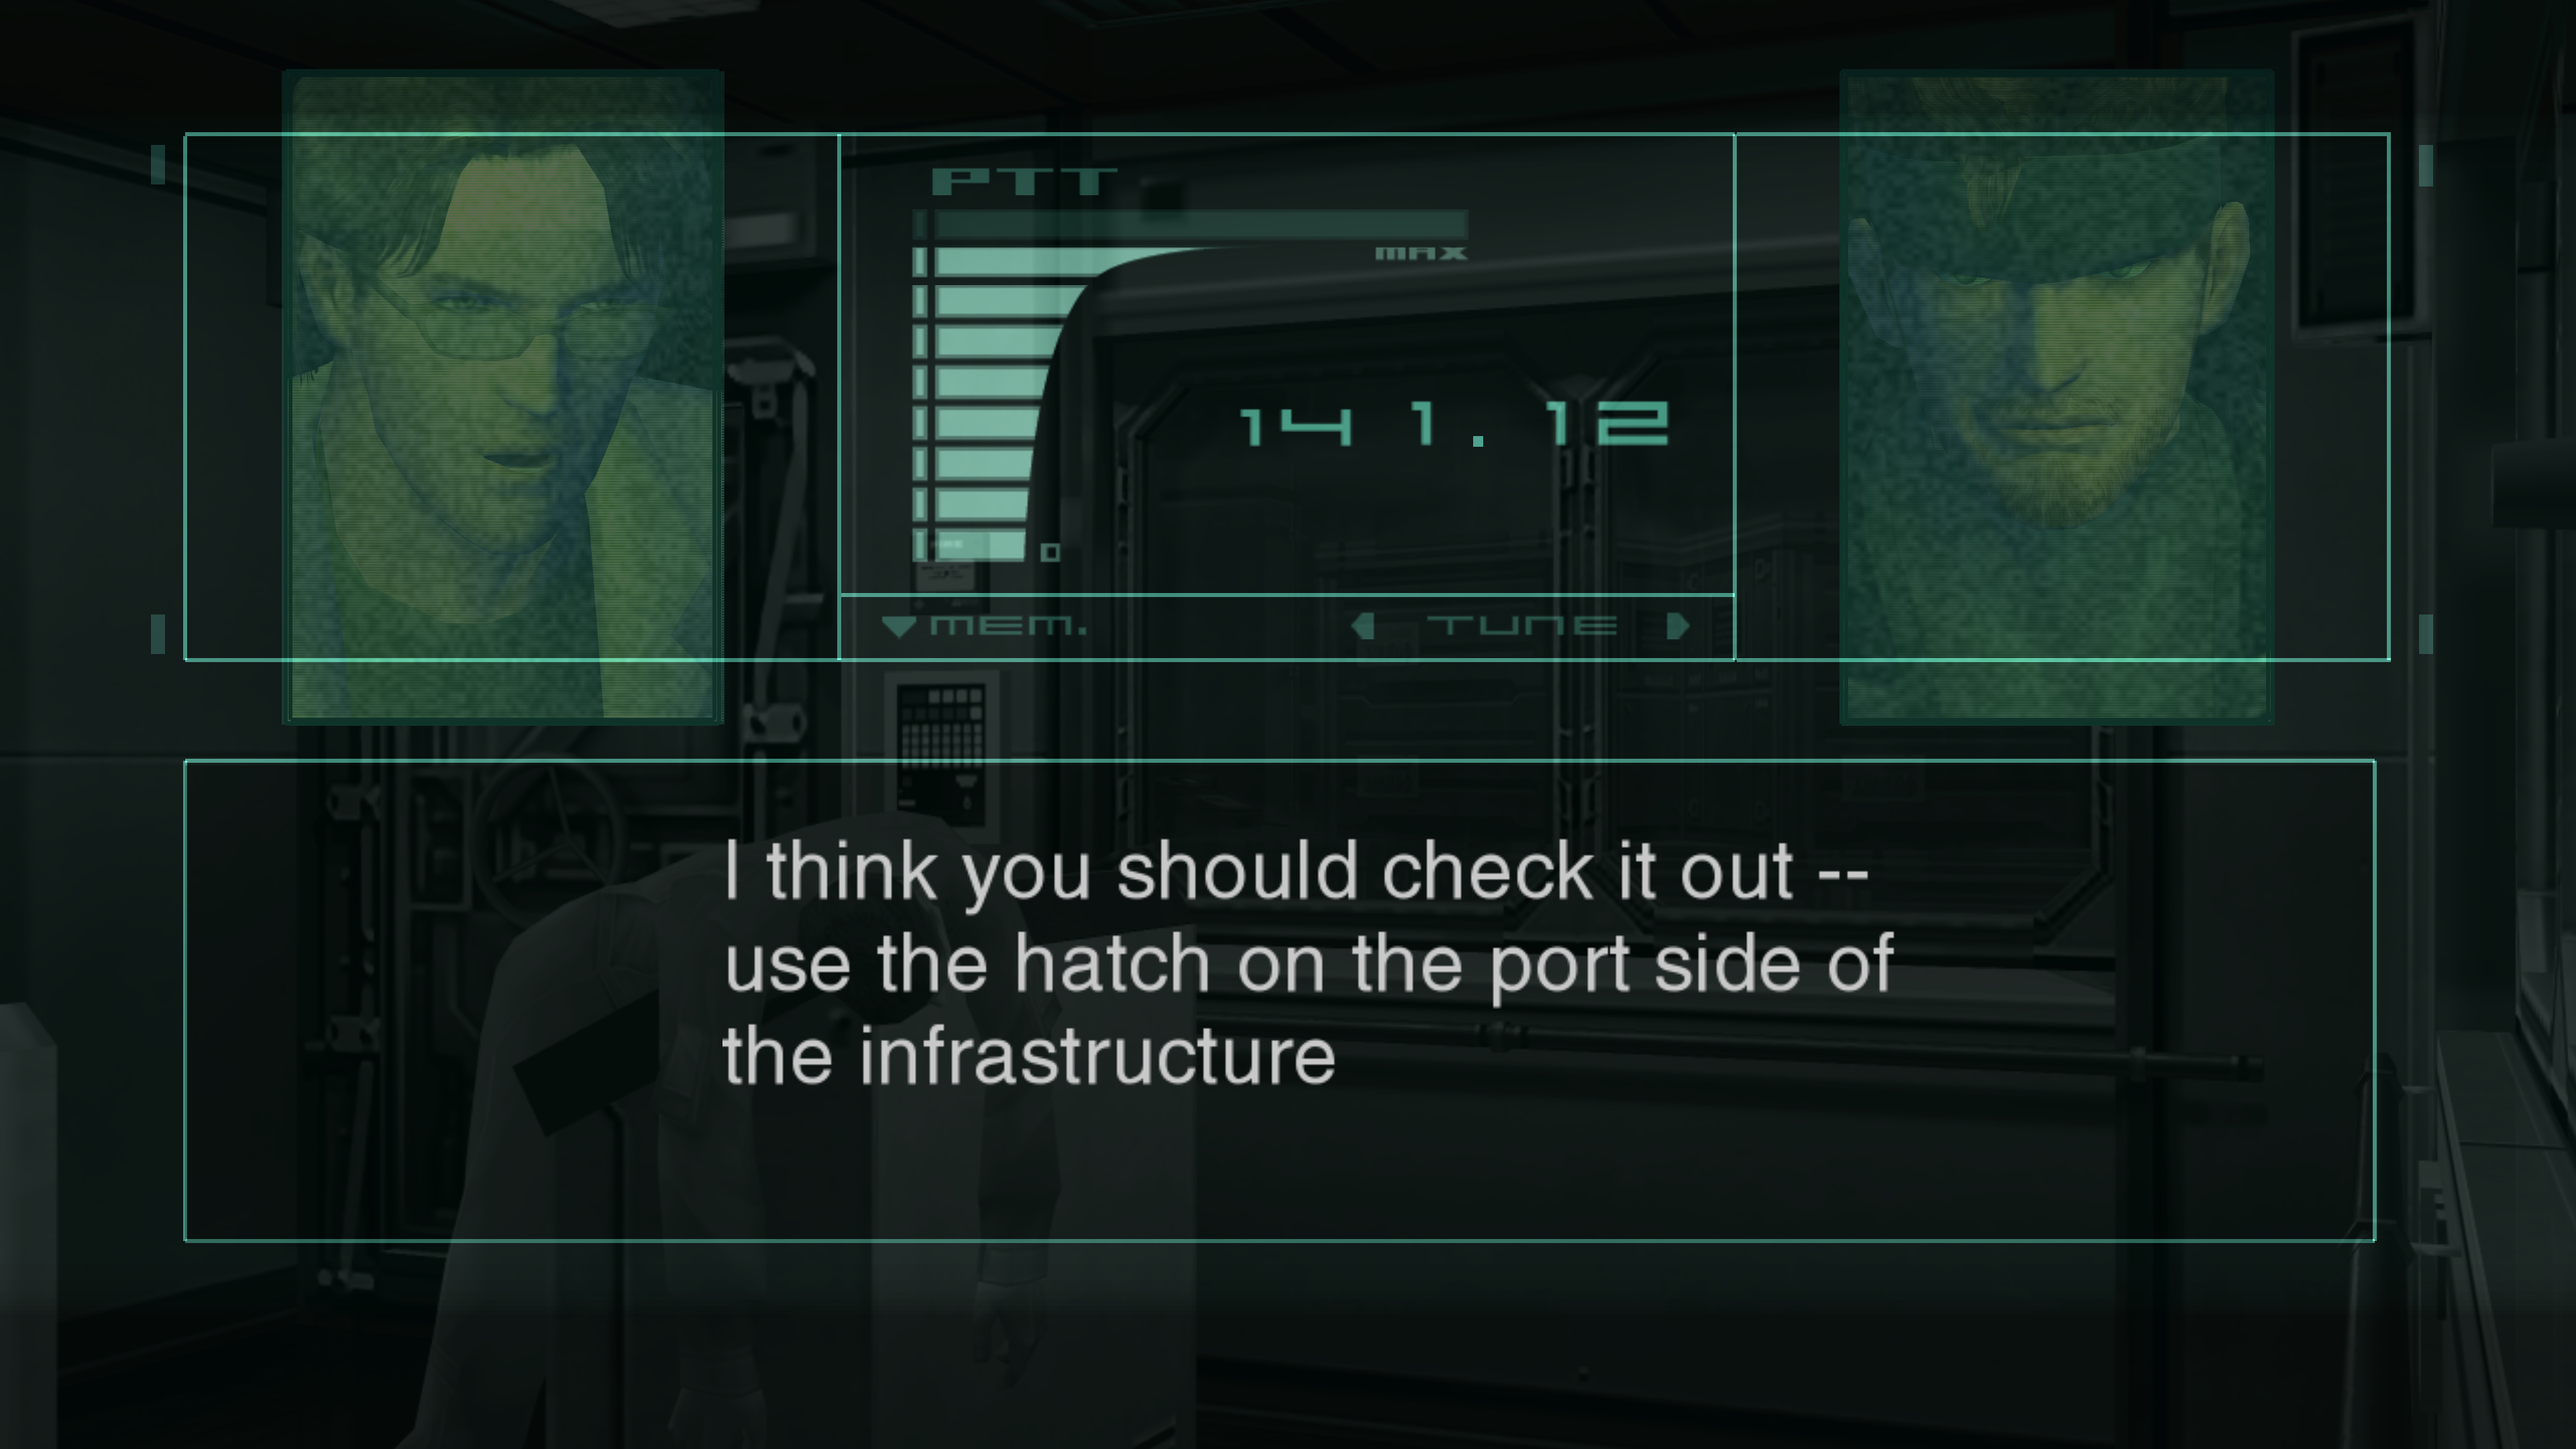
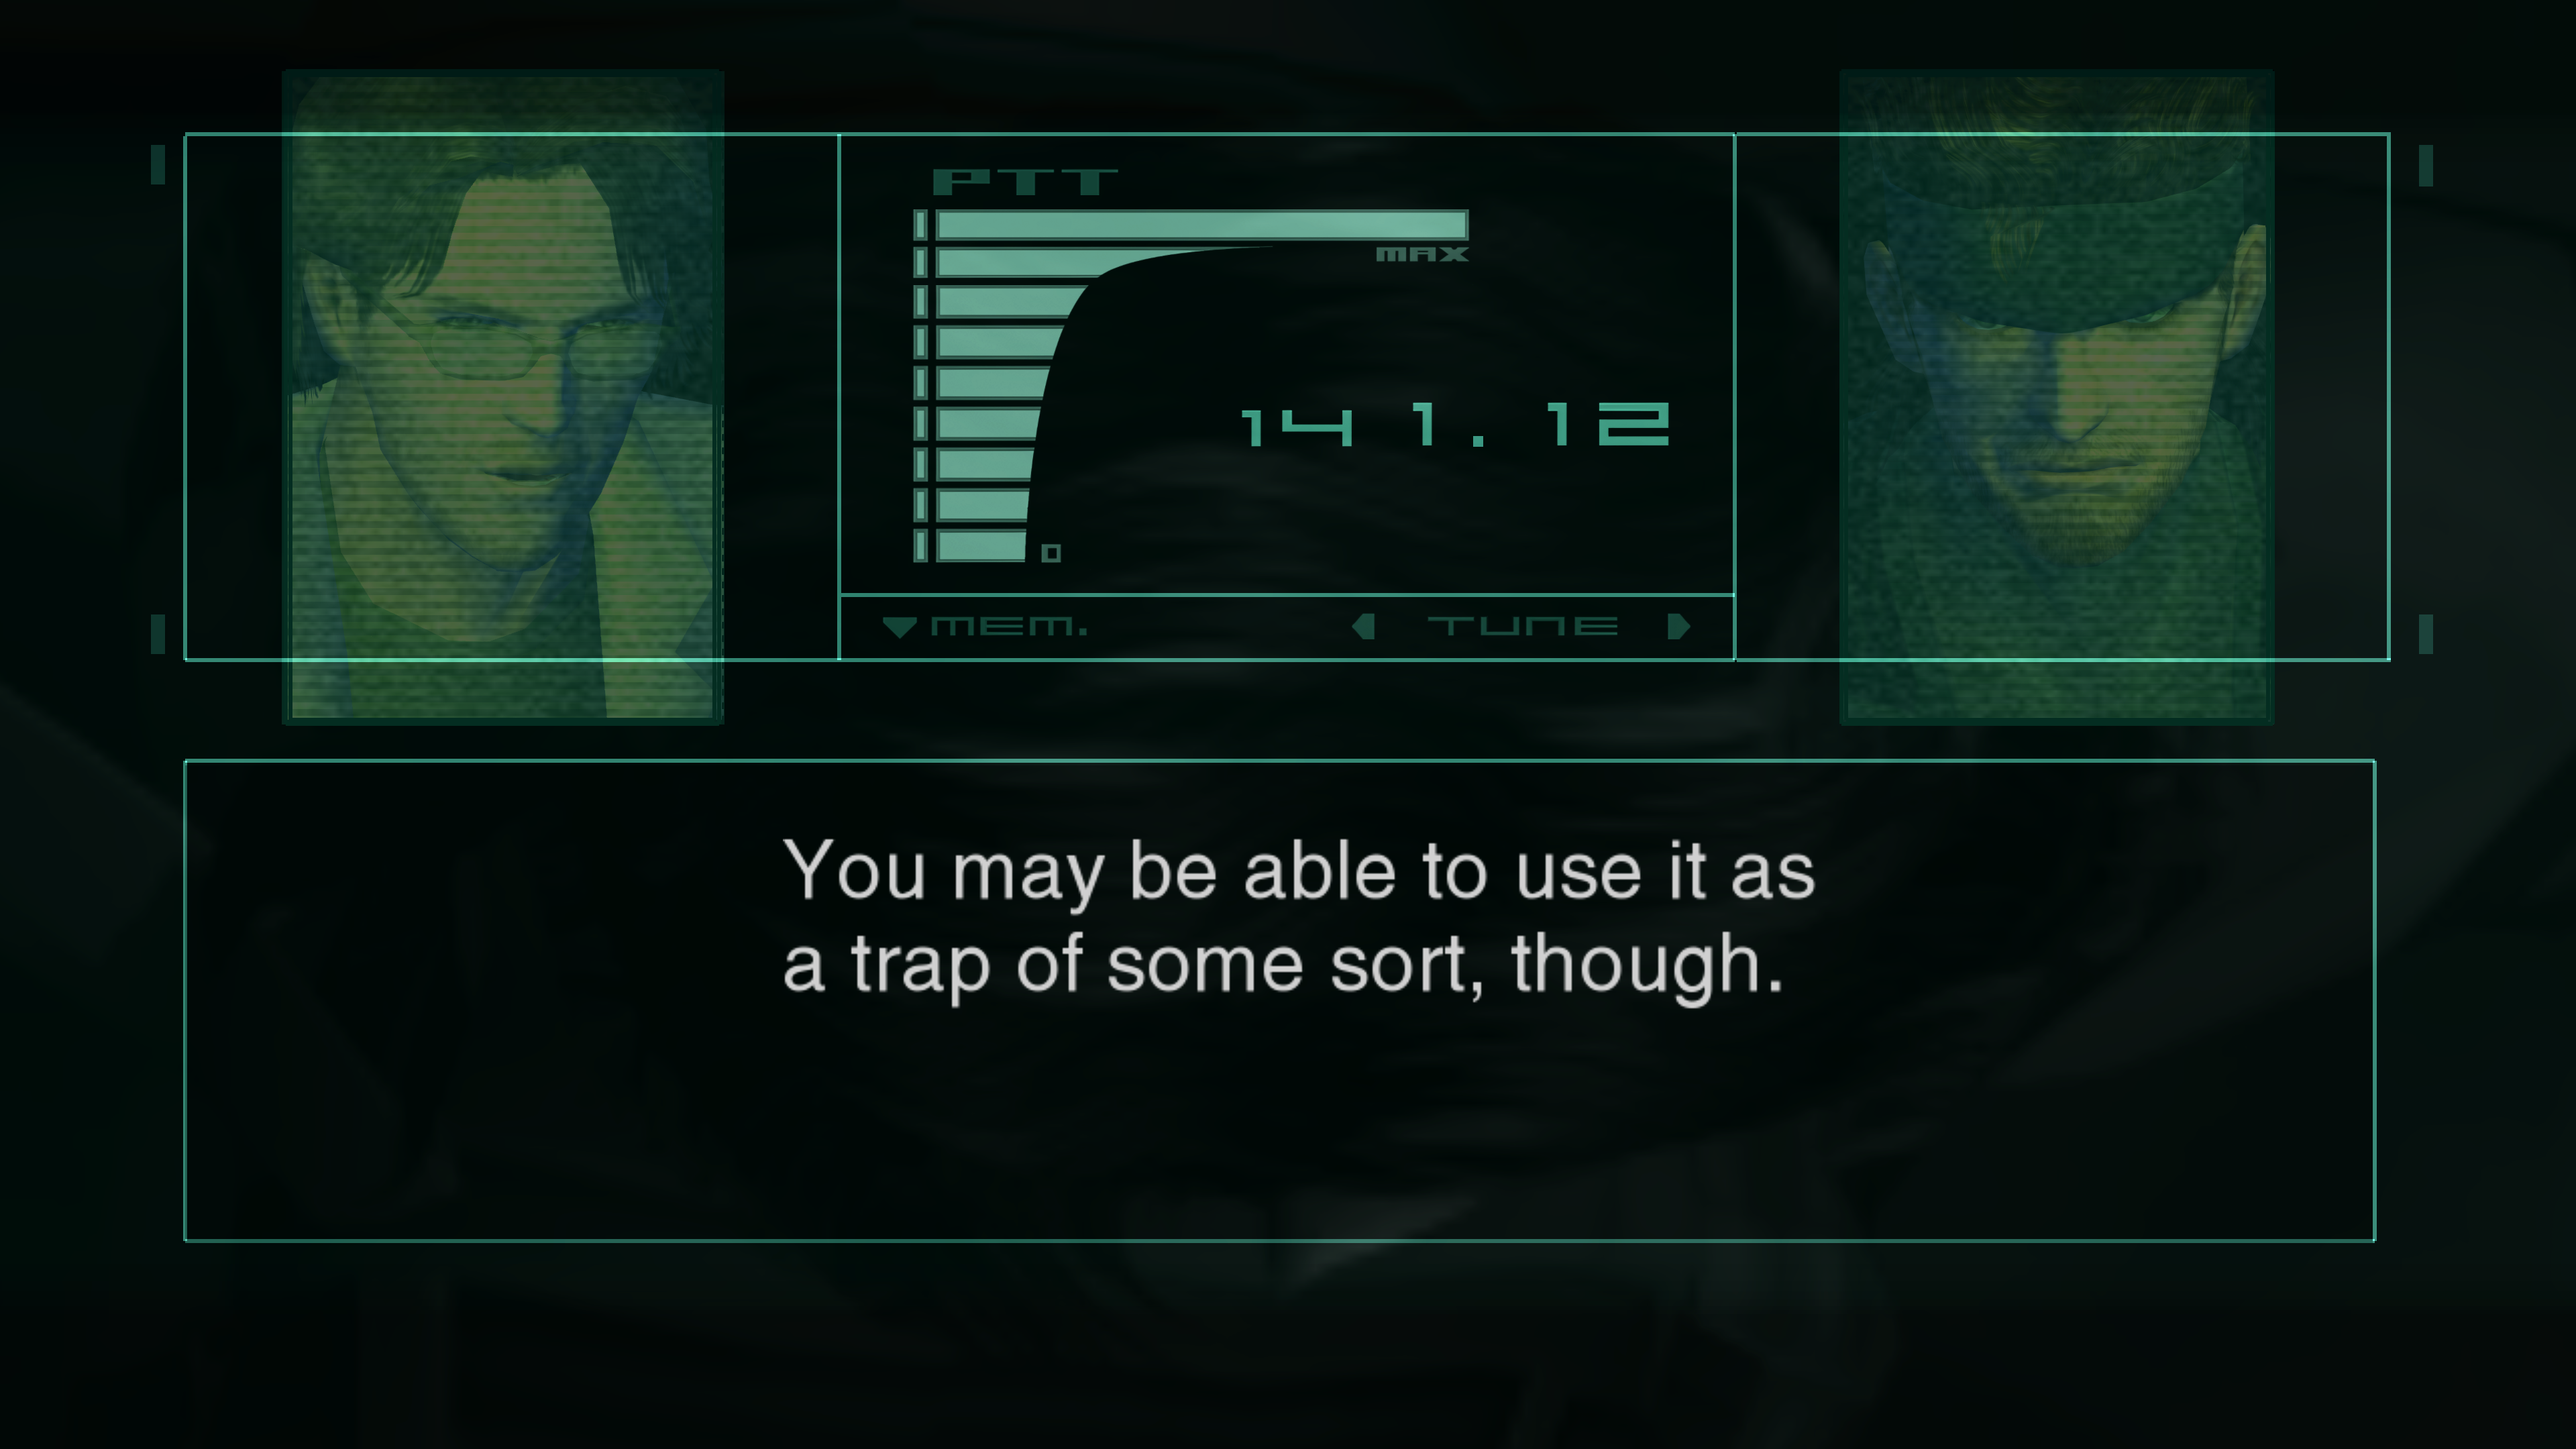
reenable smaa during thermals

diff --git a/src/fixes/resolution_scaling_fixes.cpp b/src/fixes/resolution_scaling_fixes.cpp
@@ -6,8 +6,14 @@
 #include "custom_resolution_and_borderless.hpp"
 #include "gamevars.hpp"
 //#include "input_handler.hpp"
+#include "color_correction.hpp"
+#include "line_scaling.hpp"
 #include "logging.hpp"
 #include "mgs2_linkvarbuf.hpp"
+#include "mgs_smaa.hpp"
+
+
+//#define BEFORE_COMPARISON_PICS
 
 namespace
 {
@@ -111,9 +117,48 @@ namespace
         *a = GS_Scale(*a, scale);
     }
 
+
+
+
+
     void MGS3Fixes()
     {
         
+
+
+#ifndef BEFORE_COMPARISON_PICS
+        {
+
+
+            static const uint32_t darkenHeight = static_cast<uint32_t>(std::max(1.0f, std::round((14.0f / 2160.0f) * CustomResolutionAndBorderless::iInternalResY)));
+            static const uint32_t blankHeight = static_cast<uint32_t>(std::max(1.0f, std::round((5.0f / 2160.0f) * CustomResolutionAndBorderless::iInternalResY)));
+            static const int32_t verticalOffset25 = static_cast<int32_t>(std::round((3.0f / 2160.0f) * CustomResolutionAndBorderless::iInternalResY));
+            static const float resolutionScale = static_cast<float>(CustomResolutionAndBorderless::iInternalResY) / 720.0f;
+            if (uint8_t* BP_IRModeCallback_Scan = Memory::PatternScan(baseModule, "48 B8 64 00 00 00 40 00 00 00", "NewIRMode() -> BP_IRModeCallback Alpha"))
+            {
+                Memory::PatchBytes(reinterpret_cast<uintptr_t>(BP_IRModeCallback_Scan + 6), "\x21", 1);
+            }
+            MAKE_HOOK_MID(baseModule, "85 C9 66 41 0F 6E F8", "Restore PS2 NVG Lines", {
+                    if (ResolutionScalingFixes::bRestorePS2NVGLineHeight && static_cast<uint32_t>(ctx.r8) == 25 && static_cast<uint32_t>(ctx.r9) == 25)
+                    {
+                        ctx.r8 = darkenHeight;
+                        ctx.r9 = blankHeight;
+                        ctx.xmm9.u32[0] = static_cast<uint32_t>(static_cast<int32_t>(ctx.xmm9.u32[0]) + verticalOffset25);
+                    }
+                    else
+                    {
+                        ctx.r8 = static_cast<uint32_t>(std::max(1.0f, std::round(static_cast<float>(static_cast<uint32_t>(ctx.r8)) * resolutionScale)));
+                        ctx.r9 = static_cast<uint32_t>(std::max(1.0f, std::round(static_cast<float>(static_cast<uint32_t>(ctx.r9)) * resolutionScale)));
+                    }
+                          });
+        }
+
+#endif
+
+
+
+
+
     }
 
     int* g_IR_Blinds_DarkenHeight = nullptr;
@@ -138,11 +183,19 @@ void ResolutionScalingFixes::ApplyFixes()
     SPDLOG_INFO("Resolution Scaling Fixes: Internal Width = {}, Internal Height = {}", CustomResolutionAndBorderless::iInternalResX, CustomResolutionAndBorderless::iInternalResY);
     SPDLOG_INFO("Resolution Scaling Fixes: PS2 Height Delta = {}, PS2 Width Delta = {}, PS2 Width 4:3 Delta = {}", scaleY_fromPs2, scaleX_fromPs2, scaleX_fromPs2_4by3);
 
+#ifdef BEFORE_COMPARISON_PICS
+    ColorCorrection::bShaderLoaded = false;
+    g_VectorScalingFix.bToggleRainShader = false;
+    SMAA_AA::bEnabled = false;
+#endif
 
-#define FIX_LINE_HEIGHT //for easy before / after screenshots in case they need to be updated yet again.
+
+
     if (eGameType & MGS2)
     {
-#ifdef FIX_LINE_HEIGHT  
+
+
+#ifndef BEFORE_COMPARISON_PICS 
         g_IR_Blinds_DarkenHeight = reinterpret_cast<int*>(Memory::GetRelativeOffset(Memory::PatternScan(baseModule, "8B 0D ?? ?? ?? ?? 89 48 ?? 8B 0D ?? ?? ?? ?? 89 48 ?? B9 ?? ?? ?? ?? 48 83 C4 ?? E9", "MGS2: g_IR_Blinds_DarkenHeight") + 2));
 
         spdlog::info("GameVars: g_IR_Blinds_DarkenHeight address is {:s}+{:X}", sExeName.c_str(), (uintptr_t)g_IR_Blinds_DarkenHeight - (uintptr_t)baseModule);
@@ -157,16 +210,24 @@ void ResolutionScalingFixes::ApplyFixes()
             spdlog::info("GameVars: g_IR_Blinds_BlankHeight and g_IR_Blinds_DarkenHeight set to 25");
         }
 #endif
+
+
         MGS2Fixes();
+
+
+
+
     }
     else if (eGameType & MGS3)
     {
-#ifdef FIX_LINE_HEIGHT
-        g_IR_Blinds_DarkenHeight = reinterpret_cast<int*>(Memory::GetRelativeOffset(Memory::PatternScan(baseModule, "8B 0D ?? ?? ?? ?? 89 48 ?? 8B 0D ?? ?? ?? ?? 89 48 ?? B9 ?? ?? ?? ?? 48 83 C4 ?? E9", "MGS3: g_IR_Blinds_DarkenHeight") + 2));
+
+
+#ifndef BEFORE_COMPARISON_PICS
+        g_IR_Blinds_DarkenHeight = reinterpret_cast<int*>(Memory::GetRelativeOffset(Memory::PatternScan(baseModule, "8B 1D ?? ?? ?? ?? 8B 3D ?? ?? ?? ?? E8", "MGS3: g_IR_Blinds_DarkenHeight") + 2));
 
         spdlog::info("GameVars: g_IR_Blinds_DarkenHeight address is {:s}+{:X}", sExeName.c_str(), (uintptr_t)g_IR_Blinds_DarkenHeight - (uintptr_t)baseModule);
 
-        g_IR_Blinds_BlankHeight = reinterpret_cast<int*>(Memory::GetRelativeOffset(Memory::PatternScan(baseModule, "8B 0D ?? ?? ?? ?? 89 48 ?? B9 ?? ?? ?? ?? 48 83 C4 ?? E9", "MGS3: g_IR_Blinds_BlankHeight") + 2));
+        g_IR_Blinds_BlankHeight = reinterpret_cast<int*>(Memory::GetRelativeOffset(Memory::PatternScan(baseModule, "8B 3D ?? ?? ?? ?? E8 ?? ?? ?? ?? 83 F8", "MGS3: g_IR_Blinds_BlankHeight") + 2));
         spdlog::info("GameVars: g_IR_Blinds_BlankHeight address is {:s}+{:X}", sExeName.c_str(), (uintptr_t)g_IR_Blinds_BlankHeight - (uintptr_t)baseModule);
 
         if (g_IR_Blinds_BlankHeight && g_IR_Blinds_DarkenHeight)
@@ -176,7 +237,11 @@ void ResolutionScalingFixes::ApplyFixes()
             spdlog::info("GameVars: g_IR_Blinds_BlankHeight and g_IR_Blinds_DarkenHeight set to 25");
         }
 #endif
+
+
         MGS3Fixes();
+
+
     }
 }
 
@@ -342,8 +407,8 @@ void MGS2Fixes()
                   });
 
 
-//    if (bRestorePS2NVGLineHeight)
-#ifdef FIX_LINE_HEIGHT
+#ifndef BEFORE_COMPARISON_PICS
+    if (bRestorePS2NVGLineHeight)
     {
         static const uint32_t darkenHeight = static_cast<uint32_t>(std::max(1.0f, std::round((14.0f / 2160.0f) * CustomResolutionAndBorderless::iInternalResY)));
         static const uint32_t blankHeight = static_cast<uint32_t>(std::max(1.0f, std::round((5.0f / 2160.0f) * CustomResolutionAndBorderless::iInternalResY)));
@@ -352,7 +417,7 @@ void MGS2Fixes()
         static const uint32_t codecLineHeight = static_cast<uint32_t>(std::max(1.0f, std::round((10.0f / 2160.0f) * CustomResolutionAndBorderless::iInternalResY)));
         static const int32_t codecVerticalOffset = static_cast<int32_t>(std::round((-10.0f / 2160.0f) * CustomResolutionAndBorderless::iInternalResY));
 
-        MAKE_HOOK_MID(baseModule, "85 C9 ?? ?? ?? ?? 66 45 0F 6E C0", "Restore PS2 NVG Lines", {
+        MAKE_HOOK_MID(baseModule, "85 C9 ?? ?? ?? ?? 66 45 0F 6E C0", "bp\\shared\\BP_RenderFX.cpp -> BP_PostFx_Blind() | Restore PS2 NVG Lines", {
                 if (static_cast<uint32_t>(ctx.r8) == 25 && static_cast<uint32_t>(ctx.r9) == 25)
                 {
                     ctx.r8 = darkenHeight;
@@ -367,14 +432,13 @@ void MGS2Fixes()
                 }
                       });
     }
-#endif  
-/*    else
+    else
     {
         static const float resolutionScale = static_cast<float>(CustomResolutionAndBorderless::iInternalResY) / 720.0f;
         static const int32_t verticalOffset25 = static_cast<int32_t>(std::round((0.0f / 2160.0f) * CustomResolutionAndBorderless::iInternalResY));
         static const int32_t codecVerticalOffset = static_cast<int32_t>(std::round((0.0f / 2160.0f) * CustomResolutionAndBorderless::iInternalResY));
 
-        MAKE_HOOK_MID(baseModule, "85 C9 ?? ?? ?? ?? 66 45 0F 6E C0", "Scale NVG Lines", {
+        MAKE_HOOK_MID(baseModule, "85 C9 ?? ?? ?? ?? 66 45 0F 6E C0", "bp\\shared\\BP_RenderFX.cpp -> BP_PostFx_Blind() | Scale NVG Lines", {
                 const bool is25PixelPattern = static_cast<uint32_t>(ctx.r8) == 25 && static_cast<uint32_t>(ctx.r9) == 25;
 
                 ctx.r8 = static_cast<uint32_t>(std::max(1.0f, std::round(static_cast<float>(static_cast<uint32_t>(ctx.r8)) * resolutionScale)));
@@ -382,7 +446,7 @@ void MGS2Fixes()
                 ctx.xmm9.u32[0] = static_cast<uint32_t>(static_cast<int32_t>(ctx.xmm9.u32[0]) + (is25PixelPattern ? verticalOffset25 : codecVerticalOffset));
                       });
     }
-    */
+#endif  
 
             //todo: NewUSPLight -> light_offset: convert to per-weapon offset.
 

diff --git a/src/features/mgs_smaa.cpp b/src/features/mgs_smaa.cpp
@@ -249,15 +249,15 @@ void SMAA_AA::Init()
     if (eGameType & MGS2)
     {
         SceneDepth::SetEndOf3DCallback(&SMAA_AA::Draw, SceneDepth::PRIORITY_SMAA);
-        MAKE_HOOK_MID(baseModule, "48 83 EC ?? B9 ?? ?? ?? ?? E8 ?? ?? ?? ?? 48 B9", "user\\takabe\\effect1\\ir_mode.c -> BP_IRModeCallback()", {
-              bSkipThisFrame = true;
-                      });
+
     }
     else //eGameType & MGS3
     {
+        /*
         MAKE_HOOK_MID(baseModule, "48 89 5C 24 ?? 48 89 74 24 ?? 57 48 83 EC ?? B9 ?? ?? ?? ?? E8 ?? ?? ?? ?? 48 8B F0", "user\\takabe\\effect\\ir_mode.c -> BP_IRModeCallback()", {
               bSkipThisFrame = true;
                       });
+                      */
     }
 
 
